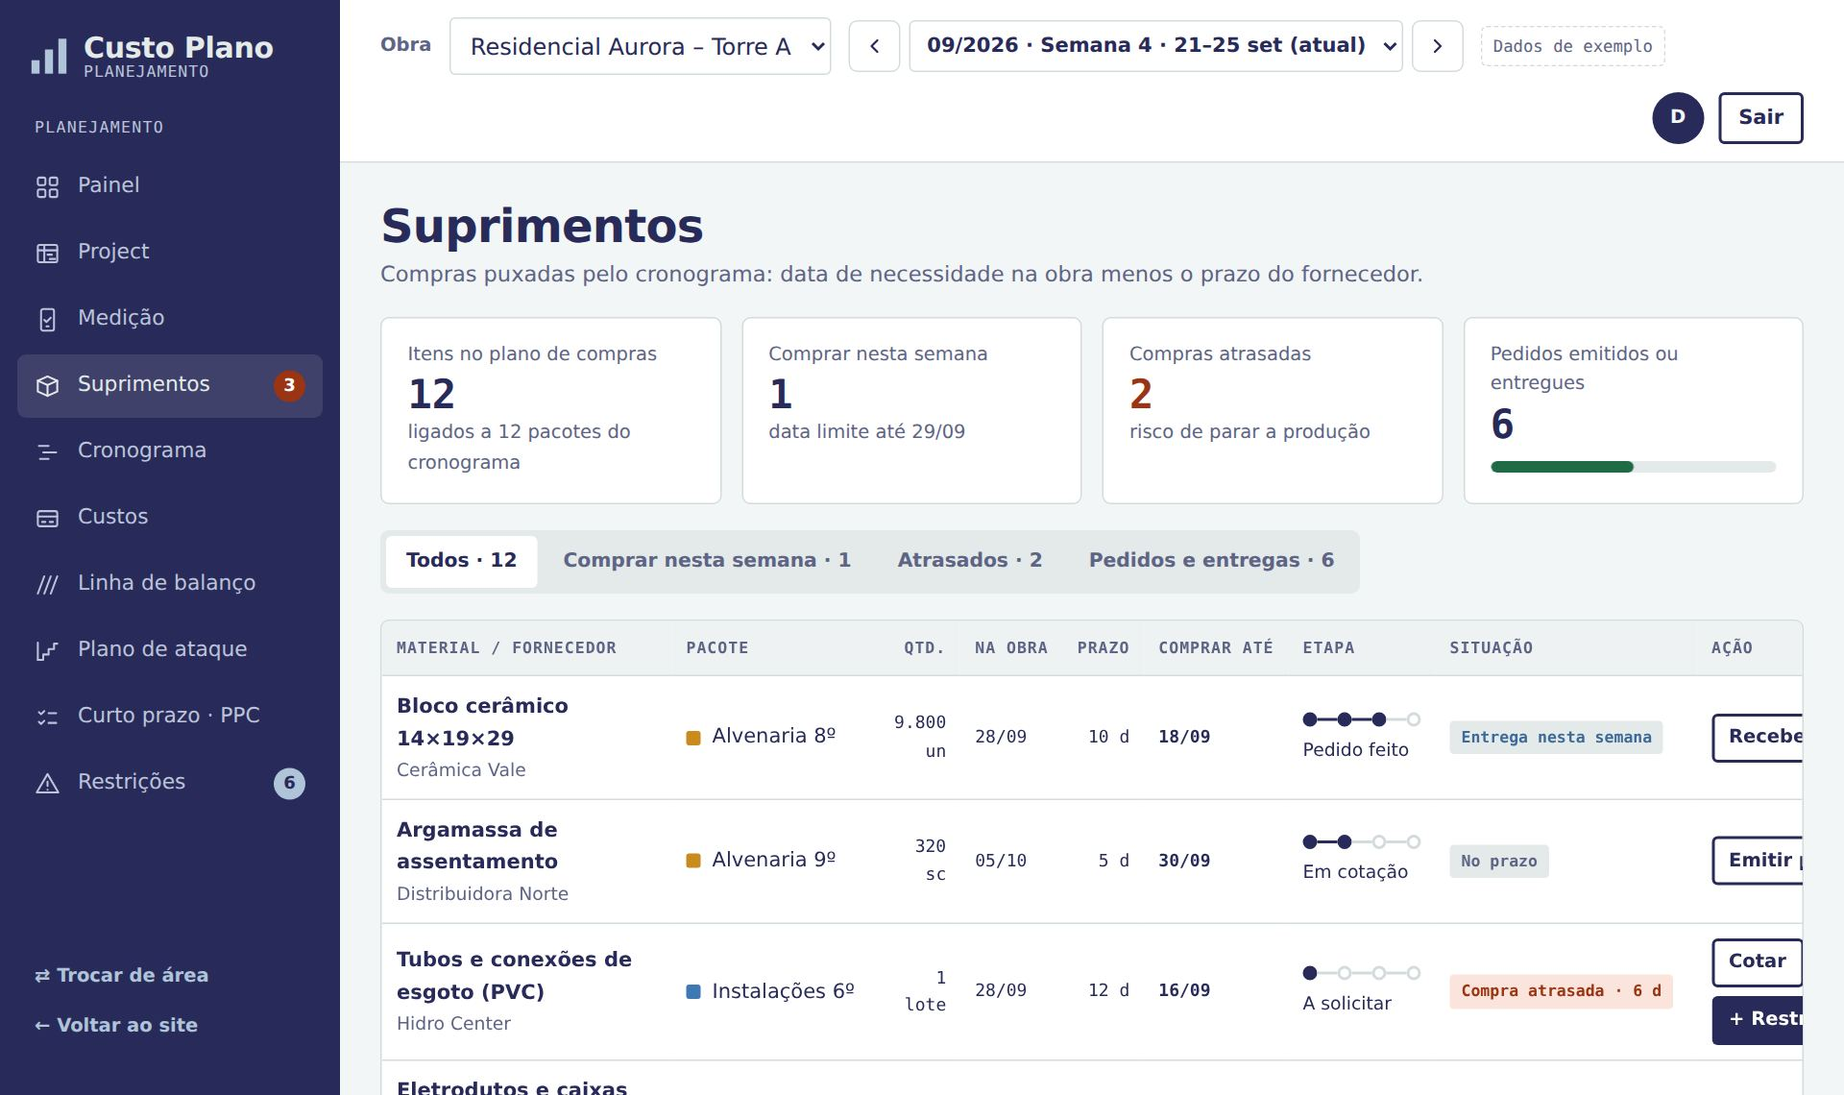
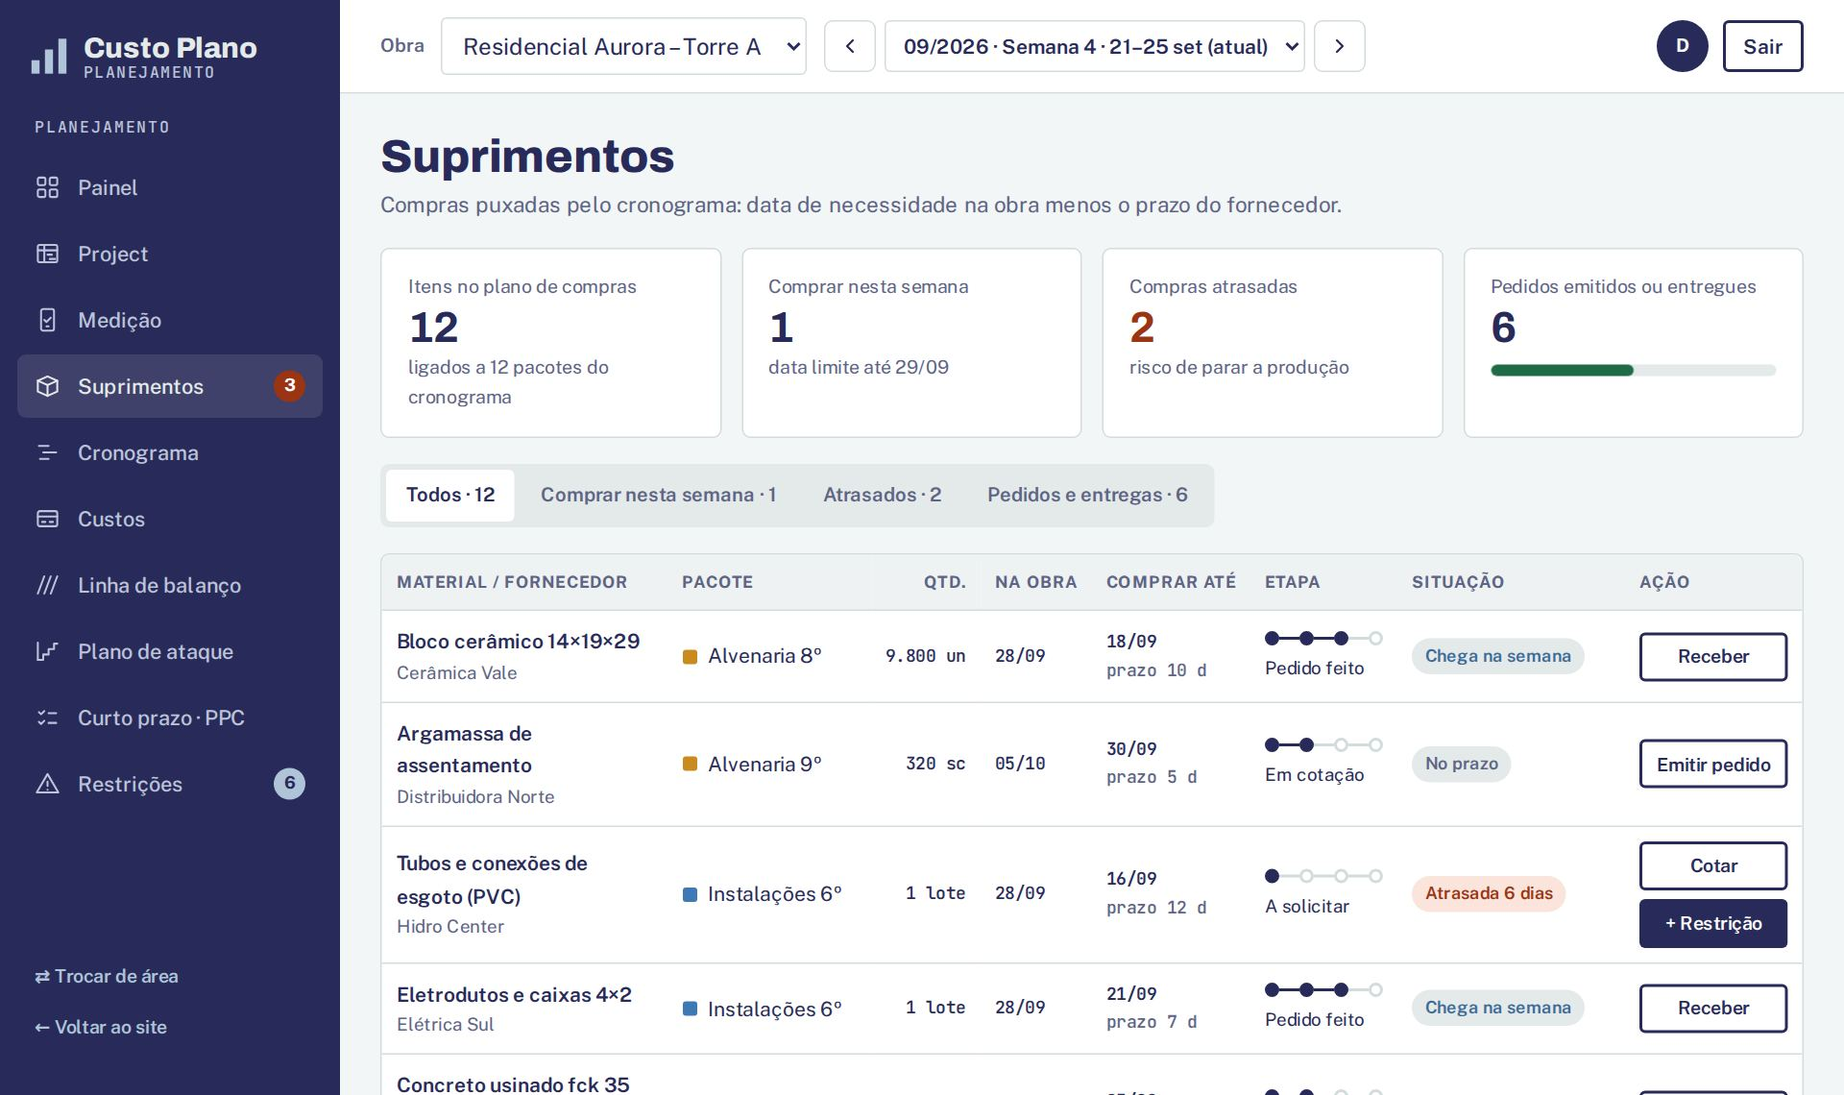
Revisão visual do site e do sistema para apresentação
- Títulos sem font-stretch (palavras pareciam esticadas)
- Capa do livro, cabeçalho e abas no celular sem quebra ou estouro
- Barra do demo cabe em uma linha a 1280px
- Tabela de Suprimentos cabe na tela (prazo junto de "Comprar até")
- Novas fotos do sistema na seção "O sistema por dentro"
- Nome de obra real removido do cronograma de exemplo, com migração

Claude-Session: https://claude.ai/code/session_016RED18GkarugfvahtKt8JL

diff --git a/custoplano/web/index.html b/custoplano/web/index.html
@@ -61,7 +61,7 @@ p{margin:0}
 .top{position:sticky;top:env(safe-area-inset-top,0px);z-index:10;background:color-mix(in srgb,var(--ground) 92%,transparent);backdrop-filter:blur(8px);border-bottom:1px solid var(--line)}
 .top .wrap{display:flex;align-items:center;gap:24px;min-height:68px}
 .brand{display:flex;align-items:center;gap:10px;text-decoration:none;color:var(--ink)}
-.brand b{font-family:var(--display);font-stretch:112%;font-weight:800;font-size:20px;letter-spacing:-.01em}
+.brand b{font-family:var(--display);font-weight:800;font-size:20px;letter-spacing:-.01em}
 .brand small{font-family:var(--mono);font-size:11px;color:var(--muted);letter-spacing:.06em;text-transform:uppercase}
 .menu{display:flex;gap:4px;margin-left:auto;flex-wrap:wrap}
 .menu a{color:var(--ink);text-decoration:none;font-size:15px;font-weight:500;padding:10px 12px;border-radius:6px;white-space:nowrap}
@@ -175,7 +175,7 @@ section.block{padding-block:clamp(48px,7vw,88px);border-top:1px solid var(--line
 .manual{display:grid;grid-template-columns:120px minmax(0,1fr);gap:24px;align-items:center;background:var(--surface);border:1px solid var(--line);padding:22px}
 .livro{width:120px;aspect-ratio:170/240;background:#282B59;color:#fff;padding:12px 10px;display:flex;flex-direction:column;justify-content:space-between;box-shadow:4px 4px 0 var(--gold)}
 .livro b{font-family:var(--serif);font-size:15px;line-height:1.1}
-.livro small{font-size:8px;color:#AFC3D9;letter-spacing:.04em}
+.livro small{font-size:9.5px;font-weight:600;color:#AFC3D9;letter-spacing:.12em;white-space:nowrap}
 .manual p{color:var(--muted);font-size:16px;margin:6px 0 14px}
 @media (max-width:520px){.manual{grid-template-columns:1fr}}
 
@@ -232,6 +232,7 @@ footer.site a{color:var(--ink)}
 .top .actions{display:flex;gap:8px;align-items:center}
 @media (max-width:860px){.top .actions{margin-left:auto}}
 @media (max-width:420px){.top .btn-primary{display:none}}
+@media (max-width:520px){.top .wrap{gap:12px}.brand b{white-space:nowrap;font-size:18px}.brand small{font-size:10px}.btn-login{white-space:nowrap;min-height:42px;padding:0 14px;font-size:14px}}
 
 /* ---------- Tokens extras do sistema ---------- */
 :root{--good:#1E6B45;--good-bg:#E2F0E8;--bad:#9A3412;--bad-bg:#FBE4DC;--info:#3D6A99;--info-bg:#E3EAE9;--soft:#EEF2F2;--cell:#E3EAE9;--cell-cur:#D3DCDC}
@@ -241,14 +242,14 @@ footer.site a{color:var(--ink)}
 /* ---------- Login ---------- */
 .login{min-height:100dvh;display:grid;grid-template-columns:1fr 1fr;background:var(--ground)}
 .login-side{background:var(--panel);color:var(--panel-ink);padding:clamp(28px,5vw,64px);display:flex;flex-direction:column;gap:28px;justify-content:space-between;overflow:hidden}
-.login-side h2{font-size:clamp(32px,3.6vw,50px);font-stretch:115%;font-weight:850;letter-spacing:-.02em}
+.login-side h2{font-size:clamp(32px,3.6vw,50px);font-weight:850;letter-spacing:-.02em}
 .login-side p{color:var(--panel-muted);max-width:28em}
 .login-side ul{margin:0;padding:0;list-style:none;display:flex;flex-direction:column;gap:10px;font-size:15.5px}
 .login-side li{display:grid;grid-template-columns:14px 1fr;gap:10px;align-items:baseline}
 .login-side li::before{content:"";width:8px;height:8px;background:var(--accent)}
 .login-main{display:flex;flex-direction:column;justify-content:center;padding:clamp(28px,5vw,64px);gap:24px}
 .login-card{width:100%;max-width:420px;display:flex;flex-direction:column;gap:18px}
-.login-card h1{font-size:34px;font-stretch:110%;font-weight:800}
+.login-card h1{font-size:34px;font-weight:800}
 .login-card form{padding:0;background:transparent;grid-template-columns:1fr}
 .linkbtn{background:none;border:0;padding:6px 0;color:var(--blue);font:inherit;font-size:15px;font-weight:600;cursor:pointer;text-align:left}
 .linkbtn:hover{text-decoration:underline}
@@ -281,23 +282,25 @@ footer.site a{color:var(--ink)}
 @media (max-width:520px){.weeknav{max-width:100%;min-width:0}.weeknav select{min-width:0;flex:1 1 auto;max-width:calc(100vw - 120px);font-size:13px;padding:4px 4px}}
 .weeknav .iconbtn:disabled{opacity:.35;cursor:default}
 .weeknav .linkbtn{font-size:13.5px;padding:6px 4px}
+@media (max-width:1440px){#wkTag{display:none}}
+@media (min-width:861px){.card-head h2{white-space:nowrap}}
 .demo-tag.alt{border-style:solid;border-color:var(--accent);color:var(--ink);background:color-mix(in srgb,var(--accent) 16%,transparent)}
 .app.real [data-a="nav:cron"],.app.real [data-a="nav:lb"],.app.real [data-a="nav:res"],.app.real #obraSel,.app.real label[for="obraSel"],.app.real .weeknav,.app.real #wkTag{display:none!important}
 .obra-nome{display:none;font-weight:700;font-size:15px;color:var(--ink)}
 .app.real .obra-nome{display:inline}
-.demo-tag{font-family:var(--mono);font-size:11.5px;color:var(--muted);border:1px dashed var(--line);padding:4px 8px;border-radius:4px}
+.demo-tag{white-space:nowrap;font-family:var(--mono);font-size:11.5px;color:var(--muted);border:1px dashed var(--line);padding:4px 8px;border-radius:4px}
 .user{margin-left:auto;display:flex;align-items:center;gap:10px}
 .avatar{width:36px;height:36px;border-radius:50%;background:var(--ink);color:var(--ground);display:inline-flex;align-items:center;justify-content:center;font-weight:700;font-size:13px}
 .btn-sm{min-height:36px;padding:0 12px;font-size:14px;border-radius:4px}
 .app-body{padding:clamp(16px,2.4vw,28px);display:flex;flex-direction:column;gap:18px}
-.app-head h1{font-size:clamp(26px,2.6vw,32px);font-stretch:108%;font-weight:800;letter-spacing:-.015em}
+.app-head h1{font-size:clamp(26px,2.6vw,32px);font-weight:800;letter-spacing:0}
 .app-head p{color:var(--muted);margin-top:4px}
 .card{background:var(--surface);border:1px solid var(--line);border-radius:6px;padding:16px 18px;min-width:0}
-.card h2{font-family:var(--display);font-stretch:105%;font-size:17px;font-weight:700}
+.card h2{font-family:var(--body);font-size:17px;font-weight:700;letter-spacing:-.005em}
 .card-head{display:flex;align-items:center;gap:12px;flex-wrap:wrap;margin-bottom:10px}
 .card-head h2{flex:1}
 .grid4{display:grid;grid-template-columns:repeat(4,minmax(0,1fr));gap:14px}
-.grid-2-1{display:grid;grid-template-columns:minmax(0,2fr) minmax(0,1fr);gap:14px;align-items:start}
+.grid-2-1{display:grid;grid-template-columns:minmax(0,1.8fr) minmax(330px,1fr);gap:14px;align-items:start}
 .pn-head{display:flex;flex-wrap:wrap;align-items:center;gap:14px 28px;padding:14px 18px}
 .pn-head>div{display:flex;flex-direction:column;gap:2px}
 .pn-head b{font-size:16px;color:var(--ink);font-weight:700}
@@ -322,7 +325,7 @@ footer.site a{color:var(--ink)}
 .cp-sem{font-size:15px;color:var(--ink)}
 .split{display:grid;grid-template-columns:minmax(0,1fr) 280px;gap:16px;align-items:start}
 .kpi-t{font-size:13px;color:var(--muted)}
-.kpi-v{font-family:var(--display);font-stretch:104%;font-size:30px;font-weight:700;letter-spacing:-.01em;font-variant-numeric:tabular-nums;line-height:1.2}
+.kpi-v{font-family:var(--display);font-size:30px;font-weight:700;letter-spacing:-.01em;font-variant-numeric:tabular-nums;line-height:1.2}
 .kpi-s{font-size:13px;color:var(--muted)}
 .bar{position:relative;height:8px;border-radius:4px;background:var(--cell);overflow:hidden}
 .bar i{position:absolute;left:0;top:0;bottom:0;border-radius:4px}
@@ -339,7 +342,7 @@ footer.site a{color:var(--ink)}
 .svc-prog div{display:flex;flex-direction:column;gap:6px;font-size:13px}
 .mono{font-family:var(--mono);font-size:12px;font-variant-numeric:tabular-nums}
 .scroll-x{overflow-x:auto;-webkit-overflow-scrolling:touch}
-.curve text{font-family:var(--mono);font-size:11px;fill:var(--muted)}
+.curve text{font-family:var(--body);font-size:12px;fill:var(--muted)}
 /* LB */
 .legend-row{display:flex;flex-wrap:wrap;gap:6px 14px;font-size:12.5px;color:var(--muted)}
 .legend-row span{display:inline-flex;align-items:center;gap:6px}
@@ -373,7 +376,7 @@ footer.site a{color:var(--ink)}
 .iconbtn{width:36px;height:36px;border:1px solid var(--line);border-radius:6px;background:var(--surface);color:var(--ink);cursor:pointer;display:inline-flex;align-items:center;justify-content:center}
 /* Tabelas */
 .tbl{width:100%;border-collapse:collapse;font-size:14px}
-.tbl th{text-align:left;font-family:var(--mono);font-size:11px;font-weight:600;letter-spacing:.06em;text-transform:uppercase;color:var(--muted);padding:10px 14px;background:var(--soft);border-bottom:1px solid var(--line)}
+.tbl th{text-align:left;font-family:var(--body);font-size:11.5px;font-weight:700;letter-spacing:.05em;text-transform:uppercase;color:var(--muted);padding:10px 14px;background:var(--soft);border-bottom:1px solid var(--line)}
 .tbl td{padding:10px 14px;border-bottom:1px solid var(--line);vertical-align:middle}
 .tbl tr:last-child td{border-bottom:0}
 .tbl select{min-height:36px;padding:4px 8px;font-size:13.5px;background:var(--surface)}
@@ -391,7 +394,12 @@ footer.site a{color:var(--ink)}
 .hist i{width:100%;border-radius:2px 2px 0 0;background:var(--line);display:block}
 .hist i.now{background:var(--accent)}
 .hist span{font-family:var(--mono);font-size:10px;color:var(--muted)}
-.tabs{display:inline-flex;gap:4px;padding:4px;border-radius:6px;background:var(--cell)}
+.tabs{display:inline-flex;gap:4px;padding:4px;border-radius:6px;background:var(--cell);max-width:100%;overflow-x:auto;scrollbar-width:none}
+.tabs button{white-space:nowrap;flex-shrink:0}
+.sup-tbl td.mono{white-space:nowrap}.sup-tbl td .chip{white-space:nowrap}.sup-tbl td:first-child{min-width:170px}.sup-tbl .btn-sm{white-space:nowrap}.sup-tbl td:nth-child(2){white-space:nowrap}
+.sup-tbl th,.sup-tbl td{padding-inline:10px}
+.sup-tbl .sup-actions{flex-direction:column;align-items:stretch}
+@media (max-width:520px){.tabs{flex-wrap:wrap}}
 .tabs button{min-height:36px;padding:0 14px;border:0;border-radius:4px;background:transparent;color:var(--muted);font:inherit;font-size:13.5px;font-weight:600;cursor:pointer}
 .tabs button[aria-pressed="true"]{background:var(--surface);color:var(--ink)}
 .newr{display:flex;gap:8px;flex-wrap:wrap;align-items:flex-end}
@@ -497,11 +505,11 @@ footer.site a{color:var(--ink)}
 .hub-user{font-size:13px;color:var(--panel-muted)}
 .hub-sair{color:var(--panel-ink);border-color:var(--panel-line)}
 .hub-main{flex:1;display:flex;flex-direction:column;gap:22px;padding-block:clamp(28px,6vw,72px);width:100%}
-.hub-main h1{font-size:clamp(30px,4vw,44px);font-stretch:108%;font-weight:800}
+.hub-main h1{font-size:clamp(30px,4vw,44px);font-weight:800}
 .hub-grid{display:grid;grid-template-columns:repeat(auto-fit,minmax(min(100%,300px),1fr));gap:18px}
 .hub-card{display:flex;flex-direction:column;gap:12px;padding:26px;border-radius:10px;background:var(--surface);border:1px solid var(--line);text-decoration:none;color:var(--ink);min-height:230px;transition:border-color .15s,transform .15s}
 .hub-card:hover{border-color:var(--blue);transform:translateY(-2px)}
-.hub-card h2{font-size:28px;font-stretch:108%}
+.hub-card h2{font-size:28px;}
 .hub-card p{color:var(--muted);font-size:15px;flex:1;margin:0}
 .hub-card .go{font-weight:700;color:var(--blue)}
 .hub-ic{width:50px;height:50px;border-radius:10px;display:grid;place-items:center;background:var(--panel);color:var(--hl)}
@@ -1949,7 +1957,7 @@ footer.site a{color:var(--ink)}
   S.pa = { view: 'matriz', cmp: false, hl: -1, msg: '' };
   function dms(s) { var m = /^(\d{4})-(\d{2})-(\d{2})/.exec(s || ''); return m ? Date.UTC(+m[1], m[2] - 1, +m[3]) : null; }
   function nkey(s) { return String(s || '').normalize('NFD').replace(/[̀-ͯ]/g, '').toLowerCase().replace(/[^a-z0-9]+/g, ''); }
-  function sdias(n) { return (n > 0 ? '+' : n < 0 ? '−' : '') + Math.abs(n) + ' d'; }
+  function sdias(n) { return n === 0 ? 'no prazo' : (n > 0 ? '+' : '−') + Math.abs(n) + (Math.abs(n) === 1 ? ' dia' : ' dias'); }
   function loadPlano() {
     if (!API) return;
     api('/api/plano').then(function (r) { PA = r.plano || null; if (!app.hidden && (S.screen === 'pa' || S.screen === 'painel')) render(); }).catch(function () {});
@@ -2373,7 +2381,7 @@ footer.site a{color:var(--ink)}
     var opts = '<option value="-1">Todos os serviços</option>' + U.map(function (s, i) { return '<option value="' + i + '"' + (S.pa.hl === i ? ' selected' : '') + '>' + esc(s.nome) + '</option>'; }).join('');
     var tab = function (id, txt) { return '<button type="button" data-a="pav:' + id + '" aria-pressed="' + (S.pa.view === id) + '">' + txt + '</button>'; };
     var bar = '<div class="prj-bar">' +
-      '<span style="display:flex;flex-direction:column;flex:1 1 240px;min-width:0"><b style="font-size:15px">' + esc(D.titulo) + (D.demo ? ' <span class="chip c-muted">exemplo</span>' : '') + '</b><span style="font-size:12.5px;color:var(--muted)">' + (D.demo ? 'Importe a planilha da escadinha da sua obra (.xlsx).' : (D.origem === 'project' ? 'Do cronograma ' : '') + esc(D.arquivo) + (TW ? ' · ' + TW.length + ' torres' : '') + ' · ' + nPav + ' pavimentos · ' + U.length + ' serviços') + ' · data base ' + (M.db != null ? fdate(M.db) : '—') + '</span></span>' +
+      '<span style="display:flex;flex-direction:column;flex:1 1 240px;min-width:0"><b style="font-size:15px">' + esc(D.titulo) + (D.demo ? ' <span class="chip c-muted">exemplo</span>' : '') + '</b><span style="font-size:12.5px;color:var(--muted)">' + (D.demo ? 'Obra de exemplo · ' + nPav + ' pavimentos · ' + U.length + ' serviços' : (D.origem === 'project' ? 'Do cronograma ' : '') + esc(D.arquivo) + (TW ? ' · ' + TW.length + ' torres' : '') + ' · ' + nPav + ' pavimentos · ' + U.length + ' serviços') + ' · <span style="white-space:nowrap">data base ' + (M.db != null ? fdate(M.db) : '—') + '</span></span></span>' +
       '<div class="tabs" role="group" aria-label="Visualização">' + tab('matriz', 'Matriz') + tab('grafico', 'Gráfico') + '</div>' +
       '<label class="kpi-t" for="paHl">Destacar</label><select id="paHl" style="width:auto;max-width:220px;min-height:36px;padding:4px 8px">' + opts + '</select>' +
       (baseD ? '<button type="button" class="btn ' + (S.pa.cmp ? 'btn-primary' : 'btn-ghost') + ' btn-sm" data-a="pacmp" aria-pressed="' + S.pa.cmp + '" title="' + esc(baseD.base.rotulo || 'Linha de base') + '">Comparar com a linha de base</button>' : '') +
@@ -3087,8 +3095,8 @@ footer.site a{color:var(--ink)}
       var dias = Math.round((buy - hojeMs()) / 864e5);
       var risk;
       if (it.st === 'entregue') risk = ['Entregue', 'c-ok', 'ok'];
-      else if (it.st === 'pedido') risk = [need < hojeMs() + 7 * 864e5 ? 'Entrega nesta semana' : 'Aguardando entrega', 'c-info', 'ok'];
-      else if (dias < 0) risk = ['Compra atrasada · ' + (-dias) + ' d', 'c-bad', 'late'];
+      else if (it.st === 'pedido') risk = [need < hojeMs() + 7 * 864e5 ? 'Chega na semana' : 'Aguardando entrega', 'c-info', 'ok'];
+      else if (dias < 0) risk = ['Atrasada ' + (-dias) + (-dias === 1 ? ' dia' : ' dias'), 'c-bad', 'late'];
       else if (dias <= 7) risk = ['Comprar até ' + fmt(buy), 'c-warn', 'week'];
       else risk = ['No prazo', 'c-muted', 'ok'];
       return Object.assign({}, it, { need: fmt(need), buy: fmt(buy), risk: risk });
@@ -3116,7 +3124,7 @@ footer.site a{color:var(--ink)}
       return '<tr><td><span style="display:flex;flex-direction:column"><b style="font-weight:600">' + esc(i.item) + '</b><span style="font-size:12.5px;color:var(--muted)">' + esc(i.forn) + '</span></span></td>' +
         '<td><span style="display:flex;align-items:center;gap:8px"><i class="sw" style="background:' + i.cor + '"></i>' + esc(i.pac) + '</span></td>' +
         '<td class="mono" style="text-align:right">' + esc(i.qtd) + '</td>' +
-        '<td class="mono">' + i.need + '</td><td class="mono" style="text-align:right">' + i.lead + ' d</td><td class="mono" style="font-weight:600">' + i.buy + '</td>' +
+        '<td class="mono">' + i.need + '</td><td class="mono"><span style="display:flex;flex-direction:column"><b style="font-weight:600">' + i.buy + '</b><span style="font-size:12px;color:var(--muted)">prazo ' + i.lead + ' d</span></span></td>' +
         '<td><span style="display:flex;flex-direction:column;gap:6px"><span class="steps4" aria-hidden="true">' + steps + '</span><span style="font-size:12.5px">' + SUP_LAB[i.st] + '</span></span></td>' +
         '<td><span class="chip ' + i.risk[1] + '">' + i.risk[0] + '</span></td>' +
         '<td><div class="sup-actions">' + acts + '</div></td></tr>';
@@ -3128,9 +3136,9 @@ footer.site a{color:var(--ink)}
         '<div class="card"><div class="kpi-t">Pedidos emitidos ou entregues</div><div class="kpi-v">' + done + '</div><div class="bar" style="margin-top:8px"><i style="width:' + (done / L.length * 100) + '%;background:var(--good)"></i></div></div>' +
       '</div>' +
       '<div class="tabs" role="group" aria-label="Filtro de suprimentos" style="align-self:flex-start">' + tab('todos', 'Todos', L.length) + tab('week', 'Comprar nesta semana', week) + tab('late', 'Atrasados', late) + tab('ok', 'Pedidos e entregas', done) + '</div>' +
-      '<section class="card" style="padding:0;overflow:hidden"><div class="scroll-x"><table class="tbl sup-tbl" style="min-width:1060px"><thead><tr>' +
-        '<th scope="col">Material / fornecedor</th><th scope="col">Pacote</th><th scope="col" style="text-align:right">Qtd.</th><th scope="col">Na obra</th><th scope="col" style="text-align:right">Prazo</th><th scope="col">Comprar até</th><th scope="col">Etapa</th><th scope="col">Situação</th><th scope="col">Ação</th>' +
-      '</tr></thead><tbody>' + (rows || '<tr><td colspan="9" style="color:var(--muted);padding:24px 14px">Nenhum item neste filtro.</td></tr>') + '</tbody></table></div></section>' +
+      '<section class="card" style="padding:0;overflow:hidden"><div class="scroll-x"><table class="tbl sup-tbl" style="min-width:960px"><thead><tr>' +
+        '<th scope="col">Material / fornecedor</th><th scope="col">Pacote</th><th scope="col" style="text-align:right">Qtd.</th><th scope="col">Na obra</th><th scope="col">Comprar até</th><th scope="col">Etapa</th><th scope="col">Situação</th><th scope="col">Ação</th>' +
+      '</tr></thead><tbody>' + (rows || '<tr><td colspan="8" style="color:var(--muted);padding:24px 14px">Nenhum item neste filtro.</td></tr>') + '</tbody></table></div></section>' +
       '<p style="font-size:12.5px;color:var(--muted)">“Comprar até” = data em que o pacote começa no cronograma menos o prazo de entrega do fornecedor. Datas e fornecedores de exemplo.</p>';
   }
 
@@ -3202,8 +3210,8 @@ footer.site a{color:var(--ink)}
       var feito = aPct(A[t.uid], 'r') >= 99.5, risk;
       if (st === 'entregue') risk = ['Entregue', 'c-ok', 'ok'];
       else if (feito) risk = ['Pacote concluído', 'c-muted', 'ok'];
-      else if (st === 'pedido') risk = [need < hoje + 7 * 864e5 ? 'Entrega nesta semana' : 'Aguardando entrega', 'c-info', 'ok'];
-      else if (dias < 0) risk = ['Compra atrasada · ' + (-dias) + ' d', 'c-bad', 'late'];
+      else if (st === 'pedido') risk = [need < hoje + 7 * 864e5 ? 'Chega na semana' : 'Aguardando entrega', 'c-info', 'ok'];
+      else if (dias < 0) risk = ['Atrasada ' + (-dias) + (-dias === 1 ? ' dia' : ' dias'), 'c-bad', 'late'];
       else if (dias <= 7) risk = ['Comprar até ' + fdate(buy).slice(0, 5), 'c-warn', 'week'];
       else risk = ['No prazo', 'c-muted', 'ok'];
       return { t: t, uid: t.uid, nivel: t.lvl - minL - (raizes.length === 1 ? 1 : 0), lead: lead, forn: sv.forn || '', st: st, need: need, buy: buy, risk: risk, torre: torreDe(t) };

diff --git a/custoplano/custos.py b/custoplano/custos.py
@@ -612,7 +612,7 @@ COMP_EXEMPLO = [
 
 
 def exemplo(projeto=None, atual: dict | None = None) -> bytes:
-    """Orçamento de exemplo ligado ao cronograma de exemplo (Rubi – Obra teste)."""
+    """Orçamento de exemplo ligado ao cronograma de exemplo (Residencial Exemplo – Torre A)."""
     itens = [["1.1", "Serviços preliminares", None, None, None, None, None, None, None],
              ["1.1.1", "Canteiro de obras", "vb", 1, "C-CANT", None, "1.1.1", None, None],
              ["1.1.2", "Locação da obra", "m²", 420, "C-LOC", None, "1.1.2", None, None],

diff --git a/custoplano/banco.py b/custoplano/banco.py
@@ -80,6 +80,11 @@ def conectar() -> sqlite3.Connection:
 def iniciar() -> None:
     with conectar() as con:
         con.executescript(ESQUEMA)
+        # o cronograma de exemplo antigo tinha o nome de uma obra real; troca nas cópias já importadas
+        con.execute(
+            "UPDATE cronogramas SET xml = replace(replace(xml, 'Rubi – Obra teste', 'Residencial Exemplo – Torre A'), 'Rubi teste.xml', 'Obra de exemplo.xml') "
+            "WHERE arquivo = 'cronograma_exemplo.xml' AND instr(xml, 'Rubi') > 0"
+        )
 
 
 def agora() -> str:

diff --git a/custoplano/LEIA-ME.md b/custoplano/LEIA-ME.md
@@ -42,7 +42,7 @@ python app.py
 ## Criar o acesso de um cliente
 
 ```bat
-flask --app app criar-usuario cliente@construtora.com.br --nome "Residencial Rubi"
+flask --app app criar-usuario cliente@construtora.com.br --nome "Residencial Exemplo"
 flask --app app trocar-senha cliente@construtora.com.br
 flask --app app listar-usuarios
 ```

diff --git a/custoplano/README.md b/custoplano/README.md
@@ -46,7 +46,7 @@ python app.py
 ## Criar o acesso de um cliente
 
 ```bat
-flask --app app criar-usuario cliente@construtora.com.br --nome "Residencial Rubi"
+flask --app app criar-usuario cliente@construtora.com.br --nome "Residencial Exemplo"
 flask --app app trocar-senha cliente@construtora.com.br
 flask --app app listar-usuarios
 ```
